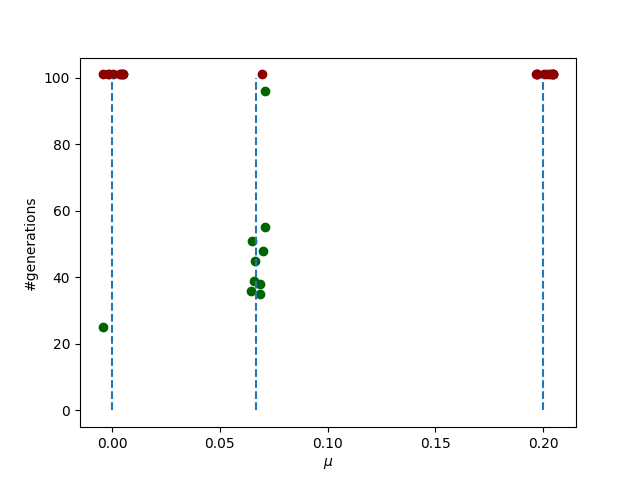
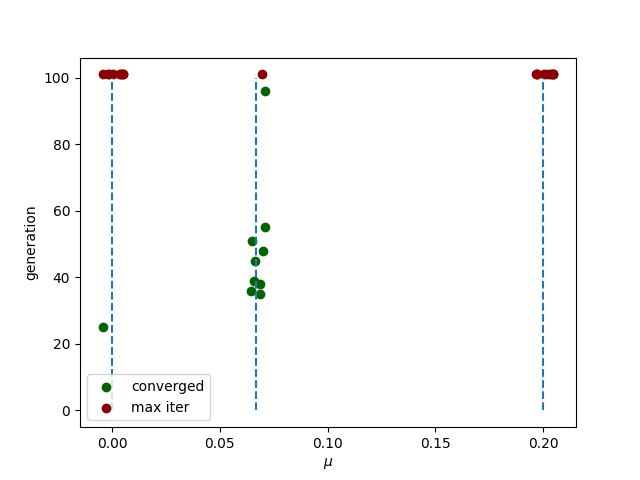
Add all results3

Changed region(s): [[0.1562, 0.7812, 0.3438, 0.875], [0.0312, 0.4062, 0.0625, 0.625]]

diff --git a/ec3.py b/ec3.py
@@ -104,15 +104,21 @@ def plot_generations(results, mutation_probs, max_iter):
 
         plt.vlines(mutation_prob, 0, max_iter, linestyles='--')
 
-        plt.scatter(noise_converged + [mutation_prob] * len(converged), converged, color='darkgreen', label='converged')
-        plt.scatter(noise_limit + [mutation_prob] * len(limit), limit, color='darkred', label='max iter')
+        plt.scatter(
+            noise_converged + [mutation_prob] * len(converged), converged,
+            color='darkgreen', label='converged' if index == 0 else ""
+        )
+        plt.scatter(
+            noise_limit + [mutation_prob] * len(limit), limit,
+            color='darkred', label='max iter' if index == 0 else ""
+        )
 
-    plt.ylabel('#generations')
+    plt.ylabel('generation')
     plt.xlabel('$\mu$')
 
-    # plt.legend() # FIXME
+    plt.legend()
 
-    plt.savefig('results3/1.png')
+    plt.savefig('results3/5.png')
     plt.show()
 
 
@@ -123,15 +129,16 @@ def plot_diversity(results, mutation_probs, max_iter):
             run = [value for value in run if value > 0]
             plt.plot(
                 np.arange(len(run)) * 10, run, color=colors[index],
-                label=f'$\mu = {mutation_probs[index]}$' if run_index == 0 else ""
+                label=f'$\mu = {mutation_probs[index]:.3f}$' if run_index == 0 else ""
             )
 
     plt.ylabel('mean hamming distance')
     plt.xlabel('generation')
 
-    plt.legend()
+    plt.legend(bbox_to_anchor = (1.3, 0.5), loc='center right')
+    plt.subplots_adjust(right=0.8)
 
-    plt.savefig('results3/2.png')
+    plt.savefig('results3/6.png')
     plt.show()
 
 
@@ -140,7 +147,7 @@ def main():
 
     # set experiment search parameters
     alphabet = np.array(list(string.ascii_letters))
-    tournament_size = 2
+    tournament_size = 5
 
     entity_size = 15
     target = np.random.choice(alphabet, size=entity_size)
@@ -148,7 +155,8 @@ def main():
     population_size = 200
 
     # set experiment hyperparameters
-    mutation_probs = [0, 1 / entity_size, 3 / entity_size]
+    # mutation_probs = [0, 1 / entity_size, 3 / entity_size]
+    mutation_probs = np.linspace(0, 3 / entity_size, 10)
 
     max_iter = 100
     repetitions = 10
